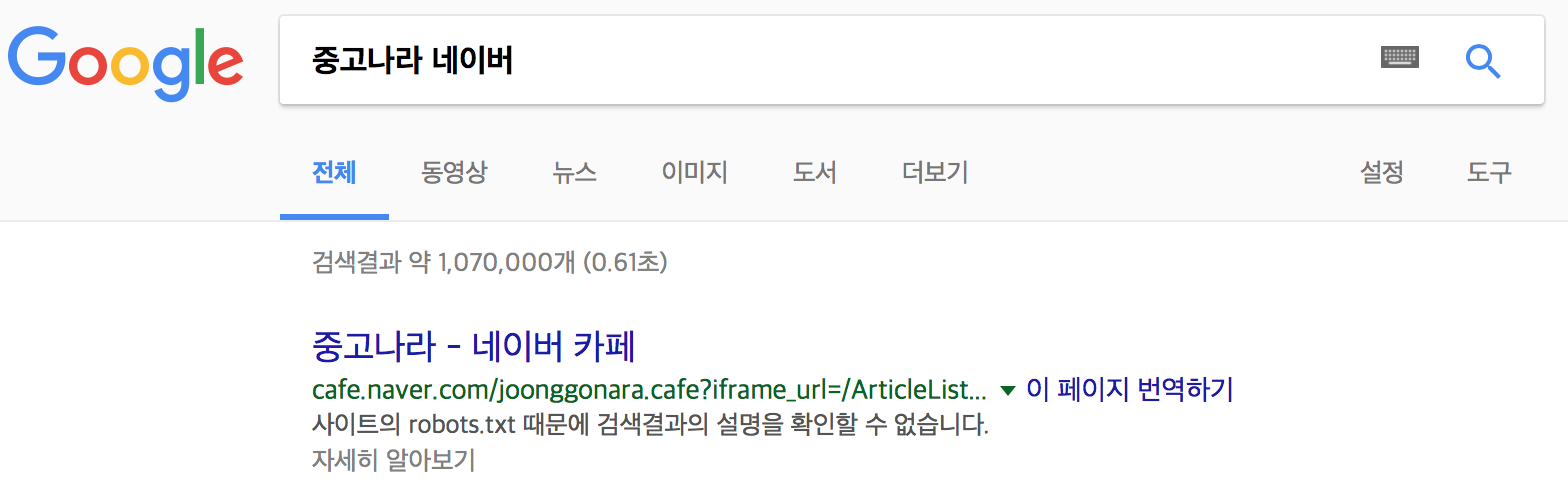
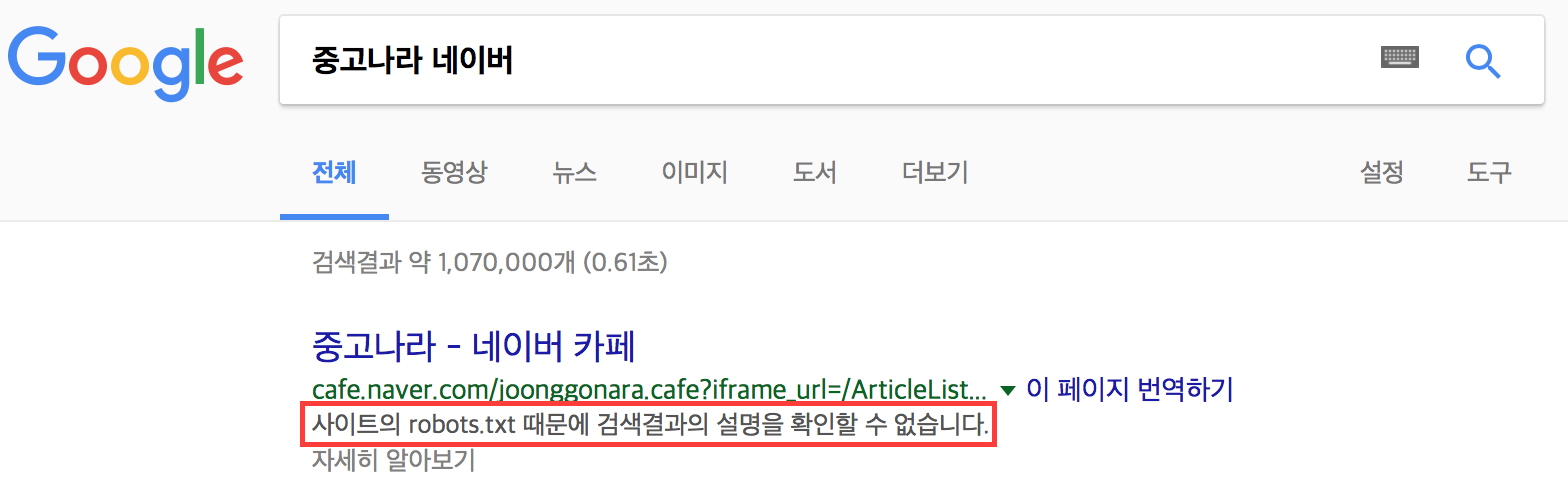
Post [Blog] 블로그 회고록

Changed region(s): [[0.1875, 0.7895, 0.6562, 0.9109]]

diff --git a/_posts/2017-04-06-blog-retrospect.md b/_posts/2017-04-06-blog-retrospect.md
@@ -1,18 +1,72 @@
 ---
 layout: post
 title:  "[Blog] 블로그 회고록"
-date:   2017-04-06 13:43:43 +0900
+date:   2017-04-06 15:13:00 +0900
 categories: jekyll blog
 ---
+
+* Table of Contents
+{:toc}
+
+# 요약
+>TIL을 공유하고 싶다 -> 프레임워크로 블로그를 만들자 -> 흥미로운 테마를 적용하면서 재미를 느낌(시간 많이 소모됨) -> 테마 적용하면서 각종 에러 디버깅(시간 제일 많이 소모) -> 내가 이러려고 블로그했나 자괴감 -> 맨 처음 봤던 Jekyll에 Default 테마로 정착
 
 # 블로그 해보려고 시행착오를 겪으며 느끼고 배운점
 
 ## 목적
 
-* [TIL](https://github.com/qvil/til)을 VSCode로 작성하고 git으로 푸쉬하고 찾아볼때는 Github으로 찾아봤다.
-    * -> TIL을 공유하고싶다.(특히 구글검색에 노출되도록)
-        * -> 구글검색? [SEO](https://ko.wikipedia.org/wiki/검색_엔진_최적화)를 고려해야되니까 일단 **네이버는 제외.**(아래 사진을 보면 robots.txt 때문에 구글에서 검색하지 못함.) ![google-search-joonggonara](/img/google-search-joonggonara.png)
-* 블로그를 처음부터 만들면 좋겠지만 너무 귀찮고 힘드네?
-    * -> 정적페이지 생성기(Static Site Generator)라는게 있다네? [StaticGen](https://www.staticgen.com)에서 가장 유명한 정적페이지 생성 프레임워크 비교 [블로그 프레임워크 비교, 왜 지킬인가? ](/jekyll/2017/04/06/why-jekyll.html)
+기존 [TIL](https://github.com/qvil/til)을 VSCode로 작성하고 git으로 푸쉬하고 찾아볼때는 Github으로 찾아봤다.
+
+TIL을 공유하고싶다. 특히 구글검색에 노출되도록(개발자는 대부분 구글 검색을 사용한다.)
+
+구글검색? [SEO](https://ko.wikipedia.org/wiki/검색_엔진_최적화)를 고려해야되니까 일단 **네이버는 제외.**(아래 사진을 보면 robots.txt 때문에 구글에서 검색하지 못함.) ![google-search-joonggonara](/img/google-search-joonggonara.png)
+블로그를 처음부터 만들면 좋겠지만 너무 귀찮고 힘드네? 위에 언급한 SEO도 알아서 해주는거 없나?
+
+있네 정적페이지 생성기(Static Site Generator)라는게 있다네?
+
+[StaticGen](https://www.staticgen.com)에서 가장 유명한 정적페이지 생성 프레임워크 비교(Jekyll, Hexo, Hugo)
+[블로그 프레임워크 비교, 왜 지킬인가?(feat. Jekyll, Hexo, Hugo)](/jekyll/2017/04/06/why-jekyll.html)
+
+## 과정
+
+### 흥미로운 테마(시간 많이 소모됨)
+
+#### [Jekyll Themes](http://jekyllthemes.org)
+
+* [Clean Blog](http://jekyllthemes.org/themes/clean-blog/) 사용해본 블로그 프레임워크에서 다 있었다. 사람들도 많이 사용하고 이름 그대로 깔끔하다.
+* [So Simple](http://jekyllthemes.org/themes/so-simple/) 이름 그대로 심플하고 검색지원(중요)해서 쓰려다가 뭔가 기능이 복잡한것 같고 오래된 느낌의 디자인이라 적용해서 이틀 사용하고 접음.
+* Material Design Theme(추천하는건 아닌데 개인적으로 Material Design 좋아해서...)
+    * [jekyll-theme-materialize](https://github.com/KeJunMao/jekyll-theme-materialize)
+    ![jekyll-theme-materialize](/img/jekyll-theme-materialize.png)
+    개인적으로 가장 마음에 들었던 Material 테마. 디자인과 검색기능도 좋았는데 코드하이라이팅이 안돼서 이슈를 등록했는데 이게 내 깃헙의 첫 이슈 Report가 되었다.
     
-## 
+    ![my-first-issue](/img/my-first-issue.png){:height="350px" width="350px"}![issue-report](/img/issue-report.png){:height="350px" width="350px"}
+    * [Jekyll Material Design Lite](http://jekyllthemes.org/themes/jekyll-mdl/) 내가 좋아하는 Material Design이 적용되어 있다. 지킬테마에 있는 Material 테마는 대부분 적용해본 것 같다.
+    * [HCZ Material](http://jekyllthemes.org/themes/hcz-jekyll-material/) Material 테마를 찾다보니 중국인을 많이 접하게 되고 config파일 중국어를 한국어로 변환하는 시간도 많이 걸리겠다고 생각하게 됨.
+
+이 외에도 많은 테마를 적용해보면서 여러 에러(대부분 bundle에러였으나 가끔 알 수 없는 에러)를 접하게 되고 글을 써야하는데 이런거 디버깅하는데 시간이 많이 소모되면 안된다고 생각함. ([이 블로그](http://vjinn.github.io/environment/enjoy-jekylling/#글쓰기에만-전념)에서 영향을 많이 받음.)
+
+#### Hexo Themes
+ * [Hexo Material](https://material.viosey.com/en/) 페이지에 문서화도 잘 되어있고 다국어지원(i18n)인데 한국어가 없길래 오픈소스에 기여할 수 있는 좋은 기회라 생각했으나 Hexo를 사용하지 않아서 사용안함.
+
+### 테마 적용하면서 각종 에러 디버깅(시간 제일 많이 소모)
+
+#### Hexo Version Control이 안돼??
+
+아래 사진을 보면 나랑 같은 문제점을 [Hexo 공식 Github에 이슈](https://github.com/hexojs/hexo/issues/1701)로 등록하였고 Hexo 멤버가 공식적으로 markdown files version control은 지원하지 않는다고 밝혔다. 다른 브랜치를 사용해서 버전관리 하라고 해서 시도해봤는데 더 불편하다. 이러면 내가 왜 Hexo를 쓰지??라는 의문을 가지게 됨.
+
+![hexo-version-control](/img/hexo-version-control.png)
+
+#### [Hugo](https://gohugo.io)는 또 뭐야?(지쳐감)
+
+테마적용과 디버깅 반복에 지쳐갈 때쯤 Go언어를 사용한 Hugo가 있다네 사람들도 많이 쓴다길래 Init해보고... 접음.
+
+### 내가 이러려고 블로그했나 자괴감
+
+몇일동안 블로그 프레임워크 탐색과 적용, 테마 검색에 시간을 다 보내느라 그동안 공부하고 쌓인 데이터들을 TIL에 한글자도 못적는 역설적인 상황이 발생함.
+
+## 결론
+
+1. Github Page에서 정식으로 Jekyll도 지원하니 나도 그렇게 사용하자.
+2. 예쁜 테마보다는 글에 집중하자.
+3. 필요한 기능(댓글, 검색 등)이 있다면 플러그인을 사용하거나 직접 구현하자.

diff --git a/_posts/2017-04-06-why-jekyll.md b/_posts/2017-04-06-why-jekyll.md
@@ -1,6 +1,6 @@
 ---
 layout: post
-title:  "[Jekyll] 블로그 프레임워크 비교, 왜 지킬인가? (feat. jekyll, hexo, hugo)"
+title:  "[Jekyll] 블로그 프레임워크 비교, 왜 지킬인가? (Feat. Jekyll, Hexo, Hugo)"
 date:   2017-04-06 13:33:43 +0900
 categories: jekyll
 ---
